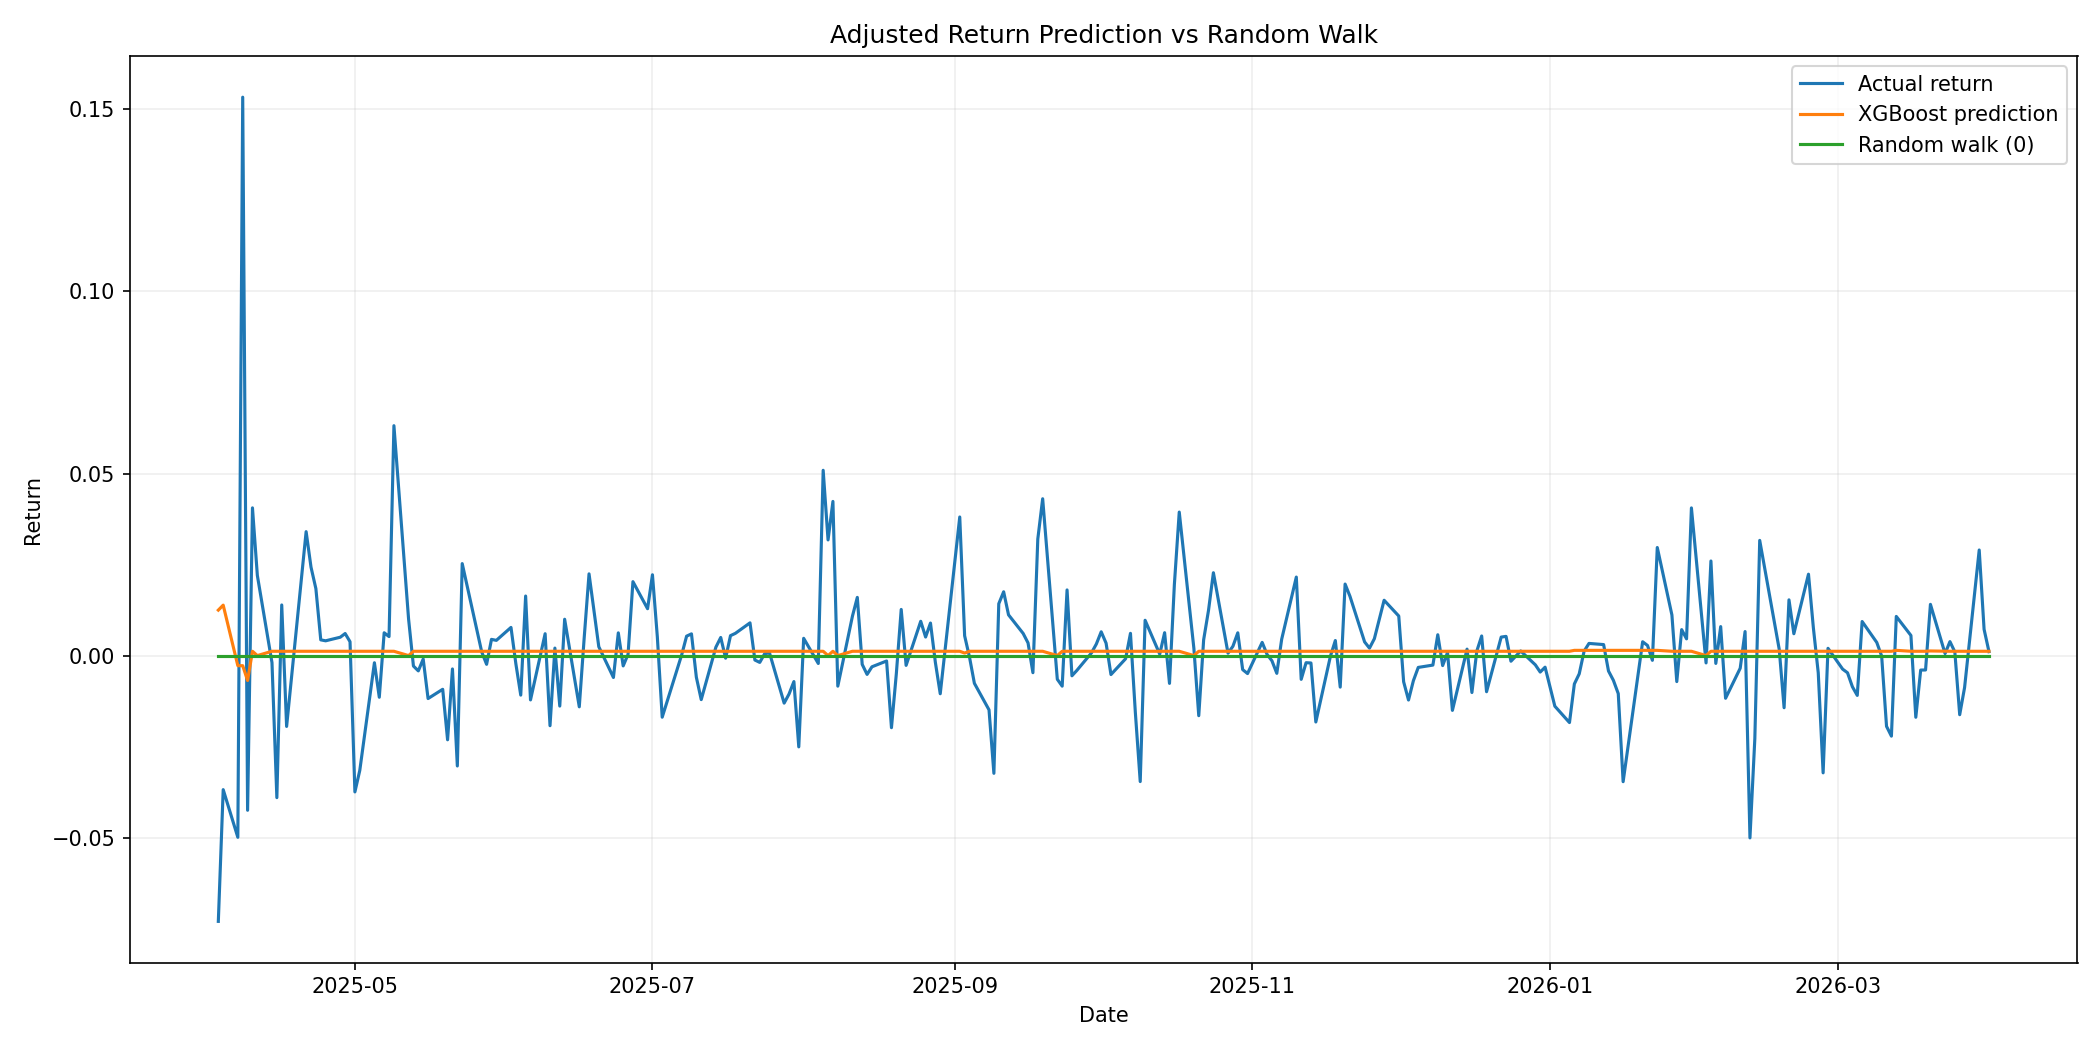
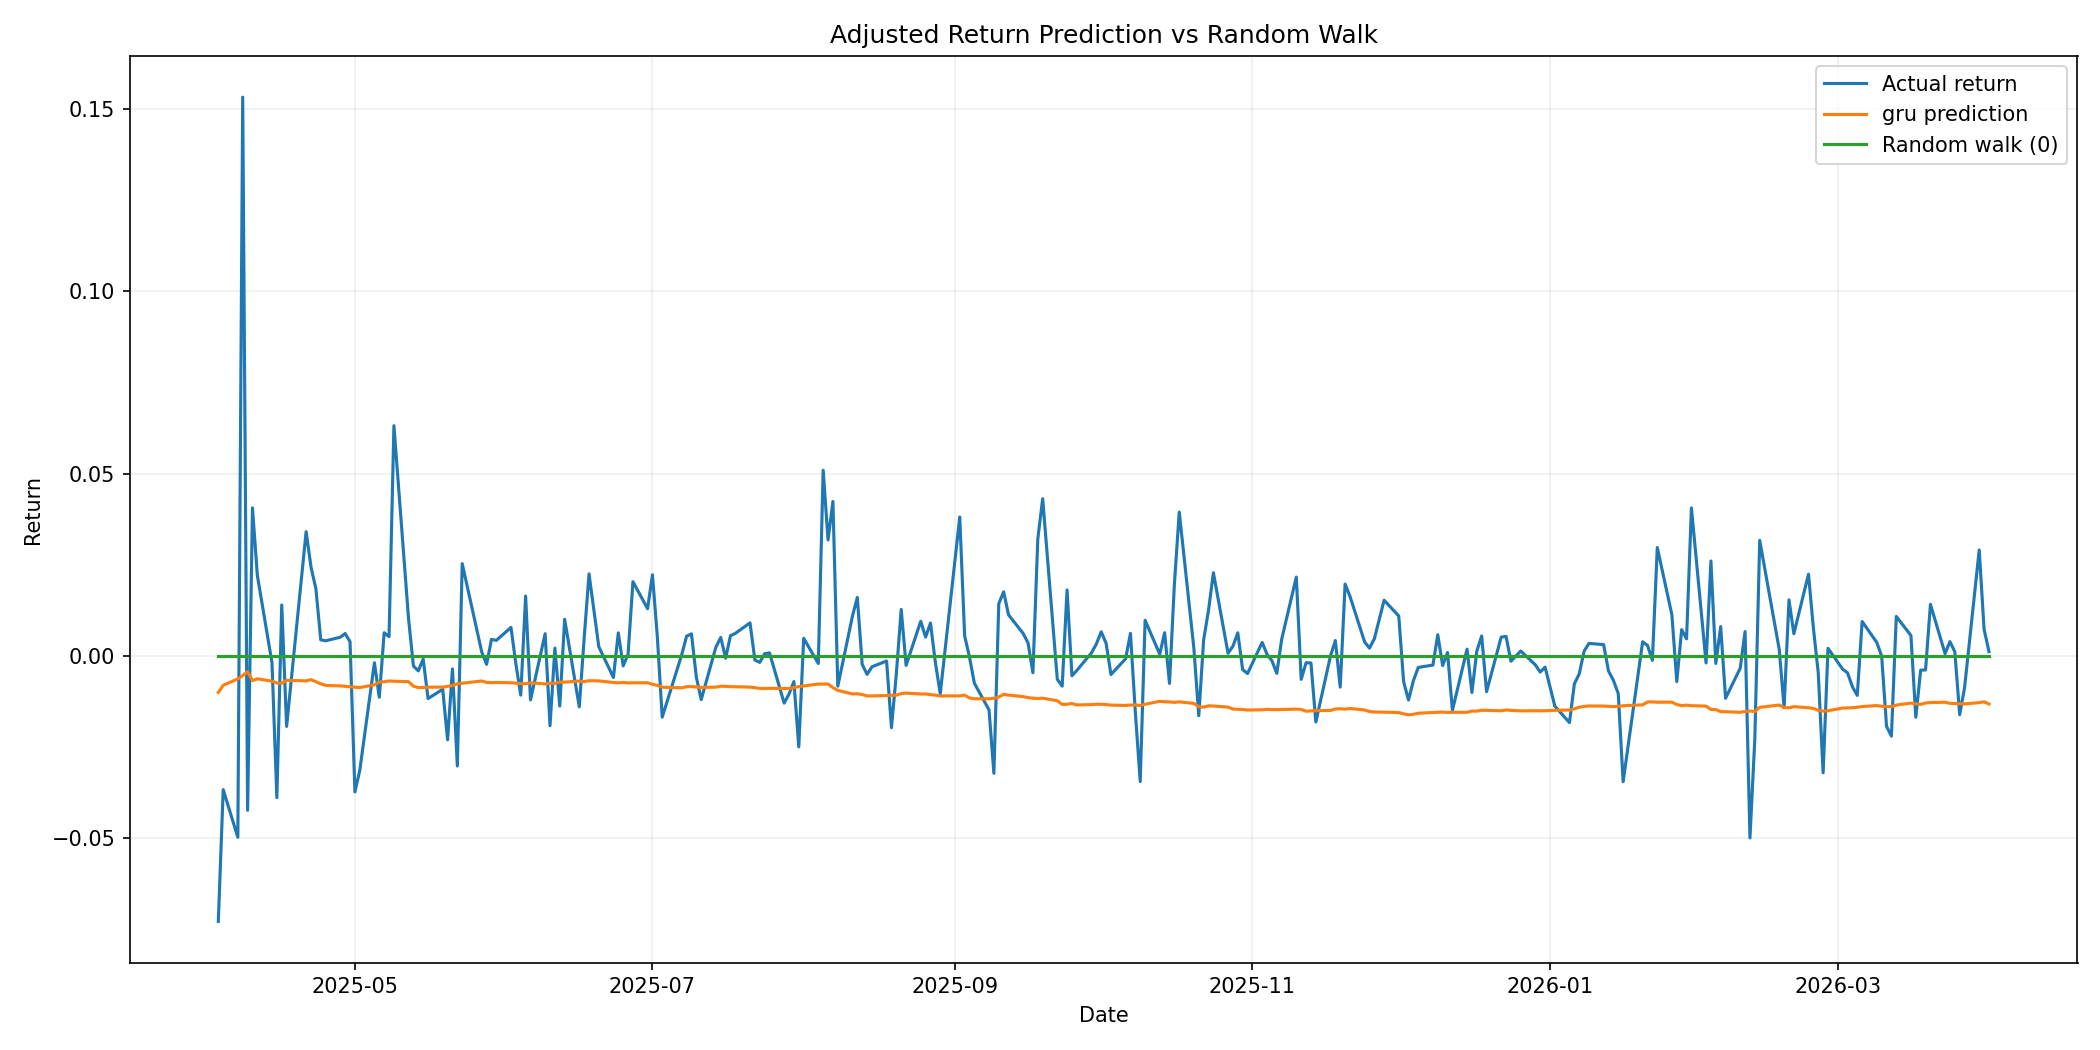
lstm and gru

diff --git a/services/lstm.py b/services/lstm.py
@@ -1,0 +1,110 @@
+import pandas as pd
+import numpy as np
+import torch
+import torch.nn as nn
+from sklearn.preprocessing import StandardScaler
+from torch.utils.data import DataLoader, TensorDataset
+from services.algorithm import Algorithm
+
+class _LSTMModel(nn.Module):
+    def __init__(self, input_size: int, hidden_size: int = 64, num_layers: int = 1, output_size: int = 1):
+        super(_LSTMModel, self).__init__()
+        self.lstm = nn.LSTM(input_size, hidden_size, num_layers, batch_first=True)
+        self.fc = nn.Linear(hidden_size, output_size)
+
+    def forward(self, x):
+        out, _ = self.lstm(x)
+        out = self.fc(out[:, -1, :])
+        return out
+
+class LstmAlgorithm(Algorithm):
+    def __init__(self, lookback: int = 10, random_state: int = 42, epochs: int = 50, batch_size: int = 32) -> None:
+        self.lookback = lookback
+        self.random_state = random_state
+        self.epochs = epochs
+        self.batch_size = batch_size
+        self.model = None
+        self.scaler_X = StandardScaler()
+        self.scaler_y = StandardScaler()
+        # Force CPU usage to avoid compatibility issues with older GPUs
+        self.device = torch.device("cpu")
+        torch.manual_seed(random_state)
+
+    def _create_windows(self, X, y=None):
+        X_windows, y_windows = [], []
+        for i in range(self.lookback, len(X)):
+            X_windows.append(X[i - self.lookback : i])
+            if y is not None:
+                y_windows.append(y[i])
+        return np.array(X_windows), (np.array(y_windows) if y is not None else None)
+
+    def _prepare_data(self, df: pd.DataFrame, features: list[str], target_col: str = None, fit_scaler: bool = False):
+        X = df[features].values
+        
+        if fit_scaler:
+            X = self.scaler_X.fit_transform(X)
+        else:
+            X = self.scaler_X.transform(X)
+            
+        y = None
+        if target_col is not None:
+            y = df[[target_col]].values
+            if fit_scaler:
+                y = self.scaler_y.fit_transform(y)
+            else:
+                y = self.scaler_y.transform(y)
+
+        X_seq, y_seq = self._create_windows(X, y)
+        
+        X_tensor = torch.tensor(X_seq, dtype=torch.float32).to(self.device)
+        
+        if target_col is not None:
+            y_tensor = torch.tensor(y_seq, dtype=torch.float32).to(self.device)
+            return TensorDataset(X_tensor, y_tensor)
+            
+        return X_tensor
+
+    def fit(self, train_df: pd.DataFrame, valid_df: pd.DataFrame, features: list[str], target_col: str) -> None:
+        train_dataset = self._prepare_data(train_df, features, target_col, fit_scaler=True)
+        
+        if len(train_dataset) == 0:
+            raise ValueError(f"Não há dados suficientes para criar janelas de tamanho {self.lookback}.")
+            
+        train_loader = DataLoader(train_dataset, batch_size=self.batch_size, shuffle=True)
+        
+        input_size = len(features)
+        self.model = _LSTMModel(input_size=input_size).to(self.device)
+        criterion = nn.MSELoss()
+        optimizer = torch.optim.Adam(self.model.parameters(), lr=0.001)
+
+        self.model.train()
+        for epoch in range(self.epochs):
+            for X_batch, y_batch in train_loader:
+                optimizer.zero_grad()
+                outputs = self.model(X_batch)
+                loss = criterion(outputs, y_batch)
+                loss.backward()
+                optimizer.step()
+
+    def predict(self, df: pd.DataFrame, features: list[str]) -> np.ndarray:
+        if len(df) <= self.lookback:
+            return np.full(len(df), np.nan)
+            
+        self.model.eval()
+        X_tensor = self._prepare_data(df, features, fit_scaler=False)
+        
+        with torch.no_grad():
+            preds = self.model(X_tensor).cpu().numpy()
+            
+        preds = self.scaler_y.inverse_transform(preds).flatten()
+        
+        padded_preds = np.full(len(df), np.nan)
+        padded_preds[self.lookback:] = preds
+        
+        return padded_preds
+
+    def name(self) -> str:
+        return "lstm"
+
+    def feature_profile(self) -> str:
+        return "lstm"

diff --git a/services/gru.py b/services/gru.py
@@ -1,0 +1,110 @@
+import pandas as pd
+import numpy as np
+import torch
+import torch.nn as nn
+from sklearn.preprocessing import StandardScaler
+from torch.utils.data import DataLoader, TensorDataset
+from services.algorithm import Algorithm
+
+class _GRUModel(nn.Module):
+    def __init__(self, input_size: int, hidden_size: int = 64, num_layers: int = 1, output_size: int = 1):
+        super(_GRUModel, self).__init__()
+        self.gru = nn.GRU(input_size, hidden_size, num_layers, batch_first=True)
+        self.fc = nn.Linear(hidden_size, output_size)
+
+    def forward(self, x):
+        out, _ = self.gru(x)
+        out = self.fc(out[:, -1, :])
+        return out
+
+class GruAlgorithm(Algorithm):
+    def __init__(self, lookback: int = 10, random_state: int = 42, epochs: int = 50, batch_size: int = 32) -> None:
+        self.lookback = lookback
+        self.random_state = random_state
+        self.epochs = epochs
+        self.batch_size = batch_size
+        self.model = None
+        self.scaler_X = StandardScaler()
+        self.scaler_y = StandardScaler()
+        # Force CPU usage to avoid compatibility issues with older GPUs
+        self.device = torch.device("cpu")
+        torch.manual_seed(random_state)
+
+    def _create_windows(self, X, y=None):
+        X_windows, y_windows = [], []
+        for i in range(self.lookback, len(X)):
+            X_windows.append(X[i - self.lookback : i])
+            if y is not None:
+                y_windows.append(y[i])
+        return np.array(X_windows), (np.array(y_windows) if y is not None else None)
+
+    def _prepare_data(self, df: pd.DataFrame, features: list[str], target_col: str = None, fit_scaler: bool = False):
+        X = df[features].values
+        
+        if fit_scaler:
+            X = self.scaler_X.fit_transform(X)
+        else:
+            X = self.scaler_X.transform(X)
+            
+        y = None
+        if target_col is not None:
+            y = df[[target_col]].values
+            if fit_scaler:
+                y = self.scaler_y.fit_transform(y)
+            else:
+                y = self.scaler_y.transform(y)
+
+        X_seq, y_seq = self._create_windows(X, y)
+        
+        X_tensor = torch.tensor(X_seq, dtype=torch.float32).to(self.device)
+        
+        if target_col is not None:
+            y_tensor = torch.tensor(y_seq, dtype=torch.float32).to(self.device)
+            return TensorDataset(X_tensor, y_tensor)
+            
+        return X_tensor
+
+    def fit(self, train_df: pd.DataFrame, valid_df: pd.DataFrame, features: list[str], target_col: str) -> None:
+        train_dataset = self._prepare_data(train_df, features, target_col, fit_scaler=True)
+        
+        if len(train_dataset) == 0:
+            raise ValueError(f"Não há dados suficientes para criar janelas de tamanho {self.lookback}.")
+            
+        train_loader = DataLoader(train_dataset, batch_size=self.batch_size, shuffle=True)
+        
+        input_size = len(features)
+        self.model = _GRUModel(input_size=input_size).to(self.device)
+        criterion = nn.MSELoss()
+        optimizer = torch.optim.Adam(self.model.parameters(), lr=0.001)
+
+        self.model.train()
+        for epoch in range(self.epochs):
+            for X_batch, y_batch in train_loader:
+                optimizer.zero_grad()
+                outputs = self.model(X_batch)
+                loss = criterion(outputs, y_batch)
+                loss.backward()
+                optimizer.step()
+
+    def predict(self, df: pd.DataFrame, features: list[str]) -> np.ndarray:
+        if len(df) <= self.lookback:
+            return np.full(len(df), np.nan)
+            
+        self.model.eval()
+        X_tensor = self._prepare_data(df, features, fit_scaler=False)
+        
+        with torch.no_grad():
+            preds = self.model(X_tensor).cpu().numpy()
+            
+        preds = self.scaler_y.inverse_transform(preds).flatten()
+        
+        padded_preds = np.full(len(df), np.nan)
+        padded_preds[self.lookback:] = preds
+        
+        return padded_preds
+
+    def name(self) -> str:
+        return "gru"
+
+    def feature_profile(self) -> str:
+        return "gru"

diff --git a/services/pipeline.py b/services/pipeline.py
@@ -61,7 +61,11 @@ class Pipeline:
         y_true = df[target_col].to_numpy()
         y_pred = self.algorithm.predict(df, features)
 
-        y_rw = np.zeros_like(y_true, dtype=float)
+        mask = ~np.isnan(y_pred)
+        y_true_clean = y_true[mask]
+        y_pred_clean = y_pred[mask]
+
+        y_rw = np.zeros_like(y_true_clean, dtype=float)
 
         last_adj_close = float(df["adj_close"].iloc[-1])
 
@@ -69,14 +73,14 @@ class Pipeline:
             "ticker": self.stock.ticker,
             "algorithm": self.algorithm.name(),
             "test": {
-                "mae": float(mean_absolute_error(y_true, y_pred)),
-                "rmse": float(np.sqrt(mean_squared_error(y_true, y_pred))),
-                "r2": float(r2_score(y_true, y_pred)),
+                "mae": float(mean_absolute_error(y_true_clean, y_pred_clean)),
+                "rmse": float(np.sqrt(mean_squared_error(y_true_clean, y_pred_clean))),
+                "r2": float(r2_score(y_true_clean, y_pred_clean)),
             },
             "random_walk": {
-                "mae": float(mean_absolute_error(y_true, y_rw)),
-                "rmse": float(np.sqrt(mean_squared_error(y_true, y_rw))),
-                "r2": float(r2_score(y_true, y_rw)),
+                "mae": float(mean_absolute_error(y_true_clean, y_rw)),
+                "rmse": float(np.sqrt(mean_squared_error(y_true_clean, y_rw))),
+                "r2": float(r2_score(y_true_clean, y_rw)),
             },
             "last_adj_close": last_adj_close,
             "predicted_next_return": float(y_pred[-1]),
@@ -107,7 +111,7 @@ class Pipeline:
 
         fig, ax = plt.subplots(figsize=(14, 7))
         ax.plot(plot_df["date"], actual_return, label="Actual return")
-        ax.plot(plot_df["date"], pred_return, label="XGBoost prediction")
+        ax.plot(plot_df["date"], pred_return, label=f"{self.algorithm.name()} prediction")
         ax.plot(plot_df["date"], random_walk, label="Random walk (0)")
         ax.set_title("Adjusted Return Prediction vs Random Walk")
         ax.set_xlabel("Date")

diff --git a/main.py b/main.py
@@ -1,6 +1,8 @@
 from services.pipeline import Pipeline
 from services.stock import Stock
 from services.xgboost import XGBoostAlgorithm
+from services.gru import GruAlgorithm 
+from services.lstm import LstmAlgorithm
 from datetime import datetime, timezone
 
 if __name__ == "__main__":
@@ -9,9 +11,16 @@ if __name__ == "__main__":
     end = datetime.now(timezone.utc).date().isoformat()
 
     stock = Stock(ticker=ticker, start=start, end=end)
-    algorithm = XGBoostAlgorithm(random_state=42)
+    # algorithm = XGBoostAlgorithm(random_state=42)
+    algorithm = GruAlgorithm(lookback=20, random_state=42, epochs=100, batch_size=64)
+    # algorithm = LstmAlgorithm(lookback=10, random_state=42, epochs=100, batch_size=64)
     pipeline = Pipeline(stock=stock, algorithm=algorithm, output_dir="output")
     pipeline.run()
 
-
 """Need to change strategy ? bad results"""
+
+"""Try latter with log returns instead of absolute returns, maybe more stationary and easier to predict"""
+
+"""Lstm and gru are very similar, can I just have one class with a parameter to choose between them?"""
+
+"""Parameter/feature optimization is needed"""

diff --git a/services/transform.py b/services/transform.py
@@ -5,8 +5,20 @@ class FeatureEngineer:
     def build(self, raw_df: pd.DataFrame, feature_profile: str) -> tuple[pd.DataFrame, list[str], str]:
         if feature_profile == "xgboost":
             return self._build_xgboost_features(raw_df)
+        elif feature_profile in ["lstm", "gru"]:
+            return self._build_rnn_features(raw_df)
 
         raise NotImplementedError(f"Feature profile '{feature_profile}' is not implemented yet")
+
+    def _build_rnn_features(self, raw_df: pd.DataFrame) -> tuple[pd.DataFrame, list[str], str]:
+        df = raw_df.copy().sort_values("date").reset_index(drop=True)
+        df["target_return_next_day"] = df["adj_close"].shift(-1) / df["adj_close"] - 1
+        feature_cols = ["adj_close"]
+        
+        dataset = df[["date"] + feature_cols + ["target_return_next_day"]].copy()
+        dataset = dataset.dropna().reset_index(drop=True)
+        
+        return dataset, feature_cols, "target_return_next_day"
 
     def _build_xgboost_features(self, raw_df: pd.DataFrame) -> tuple[pd.DataFrame, list[str], str]:
         df = raw_df.copy().sort_values("date").reset_index(drop=True)
